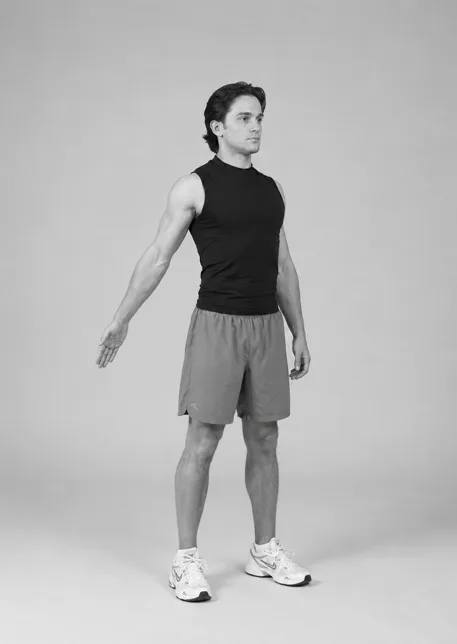
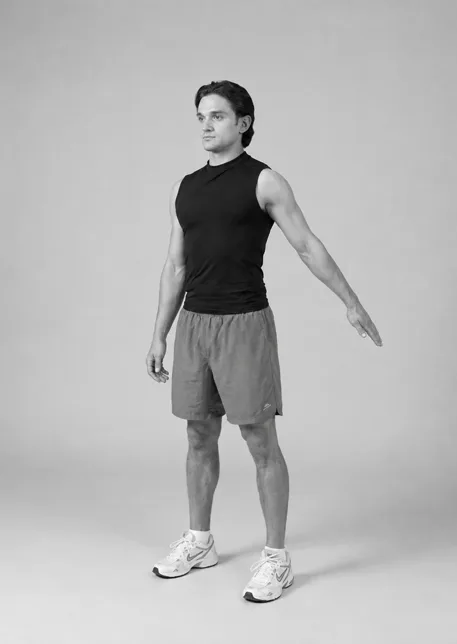
Mobility-Bilder: Schulter-CARs-Ende mit demselben Arm, 90/90-Ende ohne dritten Fuß

Changed region(s): [[0.2144, 0.1242, 0.8271, 0.9627]]

diff --git a/docs/Uebergabe.md b/docs/Uebergabe.md
@@ -129,7 +129,7 @@ Umgesetzt, `tsc -b` und `check-plan.mjs` sauber, im Dev-Browser geprüft (Mobili
 - **41 Bilder für die 33 Mobility-Übungen** (38 endgültige, drei Nachbesserungen): 28 Einzelbilder „Haltung“ (`noEndPhoto`) für Halteübungen und Tests, fünf Paare Start/Ende (Cat-Cow, Open Book, Thread the Needle, Wall Slides, 90/90-Übergänge). `genImage` in `mobilityExercises.ts` ist gesetzt. Neue Spezifikation `scripts/kie-jobs/spec-mobility.mjs` (exportiert `TAG = 'mob'`, `MODEL`, `REF_FIELD`); `make.mjs` nimmt jetzt eine Spezifikationsdatei als zweites Argument und schreibt nach `batch-<TAG>-<phase>`. Job-Ordner: `batch-mob-start`, `batch-mob-end`, `batch-mob-redo`, `batch-mob-redo2`, `pilot`.
 - **Modellwahl:** Guthaben war 482 Credits, GPT Image 2 (18 je Bild) hätte nicht gereicht. Pilot: **Nano Banana 2** (`nano-banana-2`, Feld `image_input`) kostet **8 Credits** und trifft Stil und Standardposen; `nano-banana-2-lite` (4 Credits, Feld `image_urls`) verfehlt Posen. Alle 33 Startbilder und 5 Endbilder mit Nano Banana 2; Ausreißer im ersten Durchgang: Couch Stretch (Pilotbild übernommen), tiefe Kniebeuge (zu flach), Cobra (Hüfte in der Luft), 90/90-Test (Kniestand statt Sitz), Sleeper Stretch (Arm flach). Zweiter Durchgang mit Nano Banana 2 löste Kniebeuge und 90/90-Test (mit dem 90/90-Halten-Bild als Posenreferenz), Cobra, Open Book Ende und Sleeper Stretch erst mit **GPT Image 2**. Der User hat zwischendurch auf 1134 Credits aufgeladen; Stand nach dem Lauf 1116. Rohbilder (`.png`, jetzt auch `.jpg`) per `.gitignore` ausgeschlossen, ins Repo kommen nur die WebP-Dateien (alle 73 zusammen 772 kB). Raster zur Sichtung in `public/img/gen/_versuche/mob_raster_*.png` (lokal).
 - Skill `~/.claude/skills/kie-ai` um die gemessenen Preise und die Modellwahl ergänzt.
-- **Rückmeldung des Users (26.09., abends):** „zumeist schon ganz gut“. Nachgebessert: **Schulter-CARs und Hüft-CARs** haben jetzt zwei Bilder (Arm oben / Arm hinten; Knie vorn / Knie seitlich; das alte Hüft-CARs-Bild wurde das Endbild, das Startbild mit ihm als Referenz erzeugt), **90/90-Übergänge** Endbild ist die gespiegelte Position (linkes Bein vorn), **Knie-zur-Wand-Mobilisation** zeigt jetzt den Wandkontakt (GPT Image 2 und Nano Banana Pro setzen den Fuß hartnäckig zu weit weg; gelöst mit zwei aufeinanderfolgenden Bearbeitungsschritten „move him 30 cm closer“ in Nano Banana Pro, Versuche in `_versuche/knee_wall_*`). Lehre: Bei Abstandsvorgaben zur Wand das Bild iterativ per Edit näher rücken statt neu generieren. Job-Ordner `batch-mob-redo3` bis `redo6`. Übrige Bilder will der User beim Ausführen prüfen; weitere Nachbesserungen bei Bedarf.
+- **Rückmeldung des Users (26.09., abends):** „zumeist schon ganz gut“. Nachgebessert: **Schulter-CARs und Hüft-CARs** haben jetzt zwei Bilder (Arm oben / Arm hinten; Knie vorn / Knie seitlich; das alte Hüft-CARs-Bild wurde das Endbild, das Startbild mit ihm als Referenz erzeugt), **90/90-Übergänge** Endbild ist die gespiegelte Position (linkes Bein vorn), **Knie-zur-Wand-Mobilisation** zeigt jetzt den Wandkontakt (GPT Image 2 und Nano Banana Pro setzen den Fuß hartnäckig zu weit weg; gelöst mit zwei aufeinanderfolgenden Bearbeitungsschritten „move him 30 cm closer“ in Nano Banana Pro, Versuche in `_versuche/knee_wall_*`). Lehre: Bei Abstandsvorgaben zur Wand das Bild iterativ per Edit näher rücken statt neu generieren. Job-Ordner `batch-mob-redo3` bis `redo6`. Zweite Rückmeldung: Schulter-CARs-Endbild zeigte den falschen Arm (Start linker Arm oben, Ende rechter Arm hinten) und das 90/90-Endbild hatte drei Füße; beide mit GPT Image 2 und dem Startbild als erster Referenz neu erzeugt (`batch-mob-redo7`, im Prompt den Arm ausdrücklich als „his LEFT arm, on the right side of the picture“ und „exactly two legs and two feet“ benannt), vom User in Auftrag gegeben, Abnahme steht aus. Hüft-CARs und Knie zur Wand sind laut User in Ordnung. Übrige Bilder prüft er beim Ausführen.
 
 ## Nächste Schritte
 
